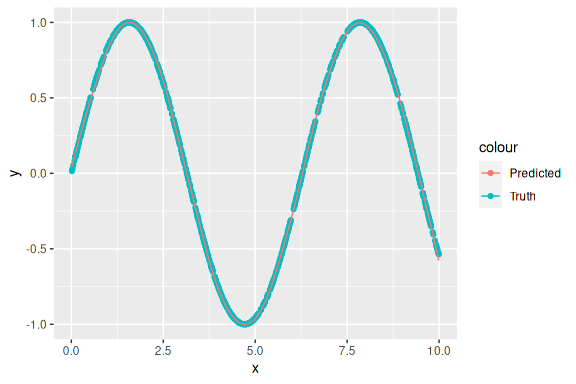
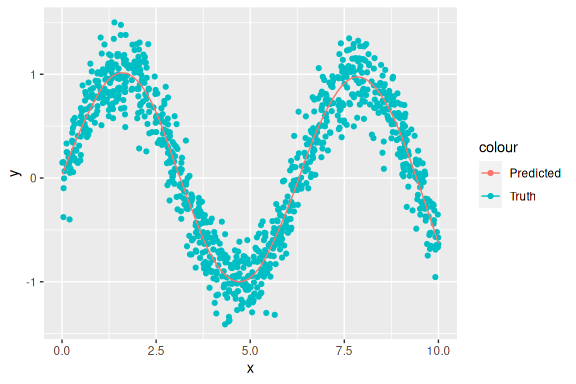
updates

diff --git a/examples/distributed-cwb-local/README.md b/examples/distributed-cwb-local/README.md
@@ -28,7 +28,7 @@ source(here::here("R/host.R"))
 nsim = 1000L
 x = runif(nsim, 0, 10)
 svec = sample(LETTERS[1:4], nsim, TRUE)
-dat = data.frame(x = x, y = sin(x))
+dat = data.frame(x = x, y = rnorm(nsim, sin(x), 0.2))
 
 # CWB structure:
 bl_spline  = BaselearnerPSpline$new("x", ord = 2)
@@ -87,17 +87,17 @@ F_j = \sum_{k=1}^K F_{k,j}, \qquad F_{k,j} = X_{k,j}^TX_{k,j}
 str(host$init_aggr)
 #> List of 1
 #>  $ x_spline:List of 1
-#>   ..$ knots: num [1:16, 1] -1.7993 -0.8923 0.0147 0.9217 1.8287 ...
+#>   ..$ knots: num [1:16, 1] -1.80803 -0.89991 0.00821 0.91633 1.82445 ...
 str(host$bl_parts)
 #> List of 1
 #>  $ x_spline:List of 4
-#>   ..$ XtX: num [1:13, 1:13] 5.206 11.31 0.758 0 0 ...
+#>   ..$ XtX: num [1:13, 1:13] 3.792 8.904 0.759 0 0 ...
 #>   ..$ K  : num [1:13, 1:13] 1 -2 1 0 0 0 0 0 0 0 ...
 #>   ..$ df : num 4
-#>   ..$ pen: num 571
+#>   ..$ pen: num 553
 
 host$offset
-#> [1] 0.207
+#> [1] 0.1638
 ```
 
 ## Fitting stage
@@ -122,7 +122,7 @@ for (m in seq_len(mstop)) {
   trace = c(trace, capture.output(host$updateCWB(m)))
 }
 cat(tail(trace), sep = "")
-#> 995: 0.00003765996: 0.00003761997: 0.00003757998: 0.00003754999: 0.00003751000: 0.00003746
+#> 995: 0.02082996: 0.02082997: 0.02082998: 0.02082999: 0.020821000: 0.02082
 ```
 
 ## Check the algorithm
@@ -138,16 +138,16 @@ str(host$cwb$getBlTrace()[1:3])
 #> List of 3
 #>  $ :List of 2
 #>   ..$ name : chr "x_spline"
-#>   ..$ param: num [1:13, 1] 0.7054 0.5249 0.3277 0.0715 -0.2143 ...
+#>   ..$ param: num [1:13, 1] 0.8164 0.6017 0.3731 0.0932 -0.2087 ...
 #>  $ :List of 2
 #>   ..$ name : chr "x_spline"
-#>   ..$ param: num [1:13, 1] 0.6362 0.4783 0.3037 0.0688 -0.199 ...
+#>   ..$ param: num [1:13, 1] 0.7385 0.5488 0.3449 0.0885 -0.1938 ...
 #>  $ :List of 2
 #>   ..$ name : chr "x_spline"
-#>   ..$ param: num [1:13, 1] 0.5729 0.4357 0.2817 0.0664 -0.1848 ...
+#>   ..$ param: num [1:13, 1] 0.6672 0.5004 0.3191 0.0843 -0.1799 ...
 str(host$cwb$getBlMap())
 #> List of 1
-#>  $ x_spline: num [1:13, 1] -0.59 0.267 0.876 0.645 -0.26 ...
+#>  $ x_spline: num [1:13, 1] -0.564 0.308 0.925 0.726 -0.225 ...
 ```
 
 Visualizing the estimated effect reveals an accurate effect estimation:
@@ -181,52 +181,17 @@ distributed algorithm:
 devtools::load_all("~/repos/compboost")
 cboost = boostSplines(data = dat, target = "y", loss = LossQuadratic$new(),
   learning_rate = 0.1, iterations = 1000L, n_knots = 10, df = 4, degree = 2,
-  differences = 2)
-#>    1/1000   risk = 0.21  time = 0   
-#>   25/1000   risk = 0.081  time = 1337   
-#>   50/1000   risk = 0.041  time = 2644   
-#>   75/1000   risk = 0.022  time = 3960   
-#>  100/1000   risk = 0.011  time = 5293   
-#>  125/1000   risk = 0.006  time = 6632   
-#>  150/1000   risk = 0.0033  time = 8005   
-#>  175/1000   risk = 0.0018  time = 9383   
-#>  200/1000   risk = 0.0011  time = 10772   
-#>  225/1000   risk = 0.00065  time = 12209   
-#>  250/1000   risk = 0.00042  time = 13634   
-#>  275/1000   risk = 0.00029  time = 15088   
-#>  300/1000   risk = 0.00022  time = 16570   
-#>  325/1000   risk = 0.00017  time = 18072   
-#>  350/1000   risk = 0.00015  time = 19584   
-#>  375/1000   risk = 0.00013  time = 21119   
-#>  400/1000   risk = 0.00011  time = 22666   
-#>  425/1000   risk = 0.0001  time = 24225   
-#>  450/1000   risk = 9.3e-05  time = 25802   
-#>  475/1000   risk = 8.6e-05  time = 27387   
-#>  500/1000   risk = 8e-05  time = 28988   
-#>  525/1000   risk = 7.6e-05  time = 30580   
-#>  550/1000   risk = 7.1e-05  time = 32172   
-#>  575/1000   risk = 6.8e-05  time = 33776   
-#>  600/1000   risk = 6.4e-05  time = 35399   
-#>  625/1000   risk = 6.1e-05  time = 37033   
-#>  650/1000   risk = 5.9e-05  time = 38686   
-#>  675/1000   risk = 5.6e-05  time = 40352   
-#>  700/1000   risk = 5.4e-05  time = 42036   
-#>  725/1000   risk = 5.2e-05  time = 43735   
-#>  750/1000   risk = 5e-05  time = 45455   
-#>  775/1000   risk = 4.9e-05  time = 47187   
-#>  800/1000   risk = 4.7e-05  time = 48935   
-#>  825/1000   risk = 4.5e-05  time = 50733   
-#>  850/1000   risk = 4.4e-05  time = 52520   
-#>  875/1000   risk = 4.3e-05  time = 54323   
-#>  900/1000   risk = 4.2e-05  time = 56143   
-#>  925/1000   risk = 4e-05  time = 57983   
-#>  950/1000   risk = 3.9e-05  time = 59843   
-#>  975/1000   risk = 3.8e-05  time = 61729   
-#> 1000/1000   risk = 3.7e-05  time = 63637   
+  differences = 2, trace = 200L)
+#>    1/1000   risk = 0.23  time = 0   
+#>  200/1000   risk = 0.022  time = 11262   
+#>  400/1000   risk = 0.021  time = 23511   
+#>  600/1000   risk = 0.021  time = 36757   
+#>  800/1000   risk = 0.021  time = 51116   
+#> 1000/1000   risk = 0.021  time = 67259   
 #> 
 #> 
 #> Train 1000 iterations in 0 Seconds.
-#> Final risk based on the train set: 3.7e-05
+#> Final risk based on the train set: 0.021
 
 all.equal(cboost$baselearner_list$x_spline$factory$getPenaltyMat(),
   host$bl_parts$x_spline$K)
